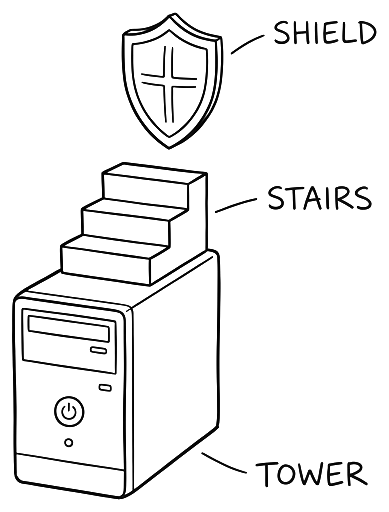
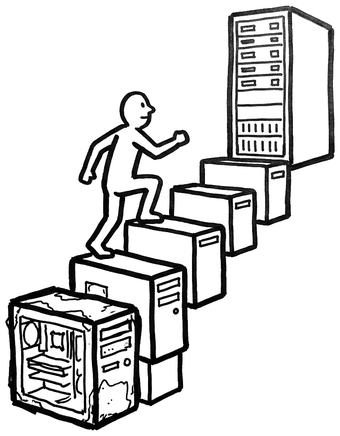
art: redraw four more doodles onto interacting objects (#456)
Continues the sweep. All four were the worst failure mode the audit identified:
two or three unrelated stock icons floating apart, each with a leader line and a
word doing the semantic work.

it-support-career was a tower, a staircase and a shield, separately labelled.
Now a figure climbing a staircase built from stacked machines, the bottom one
dusty with its side panel hanging open, the top one a clean server rack. The
career is the climb and the hardware is the steps.

raspberry-pi-security was a photorealistic board beside a padlock, both
labelled, in hairline weight that matched nothing else in the archive. Now a
credit-card-sized board wearing an oversized guard-dog collar and chain, planted
in a doorway.

quantum-crypto was a padlock, a wave and a key, each separately labelled. Now a
sandcastle padlock dissolving at the waterline while a stone one sits untouched
above the tide.

zero-knowledge was a stick figure and a curtain labelled SECRET and PROOF. Now a
hand behind a lit screen casting a shadow that exactly fills a cut-out template
held on the other side, without the hand ever crossing.

Masked at threshold 150, all under 60KB, aspect ratios updated to real
dimensions. Ten of the sixty-four flagged doodles are now done.

Build clean, audit exit 0.

Changed region(s): [[0.0, 0.0, 1.0, 1.0], [0.6471, 0.8945, 0.9412, 0.9541]]

diff --git a/src/posts/2024-04-30-quantum-resistant-cryptography-guide.md b/src/posts/2024-04-30-quantum-resistant-cryptography-guide.md
@@ -10,7 +10,7 @@ tags:
 ---
 Shor's algorithm breaks RSA encryption in polynomial time on a quantum computer. Every RSA key, every elliptic curve signature securing our digital world becomes worthless when quantum computers achieve practical capability. That realization in late 2018 sparked my quantum-resistant cryptography journey. Today's quantum progress makes preparation essential, not paranoid.
 
-<div class="zine-doodle" aria-hidden="true" style="--doodle: url('/assets/doodles/quantum-crypto.png'); width: min(360px, 82%); aspect-ratio: 640/433; margin: 2rem auto 0.5rem;"></div>
+<div class="zine-doodle" aria-hidden="true" style="--doodle: url('/assets/doodles/quantum-crypto.png'); width: min(360px, 82%); aspect-ratio: 340/270; margin: 2rem auto 0.5rem;"></div>
 <p class="hand-note" style="text-align: center; display: block;">the lock, on borrowed time</p>
 
 ## The Quantum Threat

diff --git a/src/posts/2025-03-24-from-it-support-to-senior-infosec-engineer.md b/src/posts/2025-03-24-from-it-support-to-senior-infosec-engineer.md
@@ -15,7 +15,7 @@ Twenty years ago, I was that IT guy. Printer jammed, email stopped working, comp
 
 My toolkit: USB drive full of antivirus tools, patient smile, endless "let me Google that for you" searches. I loved it. Every problem was a puzzle, every fixed computer a small victory, every grateful client taught me something new about technology and people.
 
-<div class="zine-doodle" aria-hidden="true" style="--doodle: url('/assets/doodles/it-support-career.png'); width: min(240px, 65%); aspect-ratio: 389/512; margin: 2rem auto 0.5rem;"></div>
+<div class="zine-doodle" aria-hidden="true" style="--doodle: url('/assets/doodles/it-support-career.png'); width: min(240px, 65%); aspect-ratio: 340/436; margin: 2rem auto 0.5rem;"></div>
 <p class="hand-note" style="text-align: center; display: block;">the climb, heavily abbreviated</p>
 
 ## The Accidental Security Engineer

diff --git a/src/posts/2025-03-10-raspberry-pi-security-projects.md b/src/posts/2025-03-10-raspberry-pi-security-projects.md
@@ -11,7 +11,7 @@ tags:
 ---
 After collecting a drawer full of Raspberry Pis over the years (we all have that drawer, right?), I decided it was time to put them to work. Here are five security projects that actually solve real problems, complete with implementation guides and lessons learned.
 
-<div class="zine-doodle" aria-hidden="true" style="--doodle: url('/assets/doodles/raspberry-pi-security.png'); width: min(380px, 85%); aspect-ratio: 640/356; margin: 2rem auto 0.5rem;"></div>
+<div class="zine-doodle" aria-hidden="true" style="--doodle: url('/assets/doodles/raspberry-pi-security.png'); width: min(380px, 85%); aspect-ratio: 400/373; margin: 2rem auto 0.5rem;"></div>
 <p class="hand-note" style="text-align: center; display: block;">the drawer's finest, mildly hardened</p>
 
 ## Requirements

diff --git a/src/posts/2024-06-11-zero-knowledge-authentication-homelab.md b/src/posts/2024-06-11-zero-knowledge-authentication-homelab.md
@@ -13,7 +13,7 @@ Passwords travel networks. Even with TLS, credentials exist in logs, memory dump
 
 Here's how ZK-SNARKs enable password-less authentication at homelab scale.
 
-<div class="zine-doodle" aria-hidden="true" style="--doodle: url('/assets/doodles/zero-knowledge.png'); width: min(360px, 85%); aspect-ratio: 560/305; margin: 2rem auto 0.5rem;"></div>
+<div class="zine-doodle" aria-hidden="true" style="--doodle: url('/assets/doodles/zero-knowledge.png'); width: min(360px, 85%); aspect-ratio: 400/392; margin: 2rem auto 0.5rem;"></div>
 <p class="hand-note" style="text-align: center; display: block;">proof without the secret</p>
 
 ## The Password Transmission Problem
